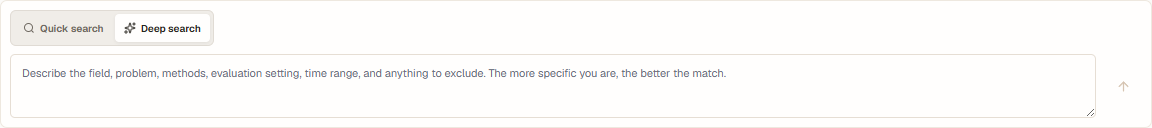
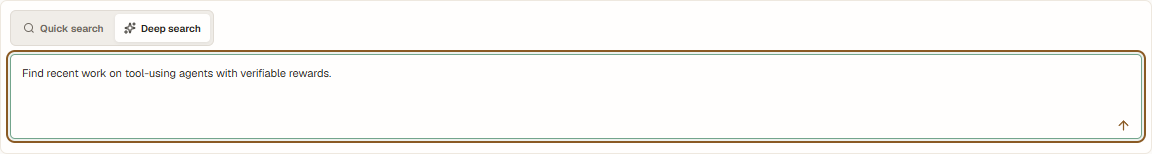
fix(daily): place search send inside the field

diff --git a/src/styles.css b/src/styles.css
@@ -884,10 +884,11 @@ button:focus-visible, input:focus-visible, textarea:focus-visible { outline: 2px
 .daily-paper-title a { background: transparent !important; border-color: transparent !important; }
 .daily-paper-title a:hover { color: var(--accent) !important; }.daily-paper-content { display: grid; min-width: 0; align-content: start; gap: 7px; }.daily-paper-title { display: flex; align-items: flex-start; gap: 6px; }.daily-paper-title h2 { flex: 1; margin: 0; color: #24362b; font-size: 13.5px; line-height: 1.4; }.daily-paper-title a { flex: 0 0 auto; padding: 2px; color: #557566; }.daily-paper-meta { display: flex; min-width: 0; align-items: center; gap: 7px; margin: 0; overflow: hidden; color: #68796e; font-size: 10px; white-space: nowrap; }.daily-paper-meta .daily-paper-date { flex: 0 0 auto; }.daily-paper-source { flex: 0 0 auto; padding: 1px 7px; color: #41634f; background: #edf3ee; border-radius: 999px; font-size: 9px; font-weight: 700; }.daily-paper-authors { min-width: 0; overflow: hidden; text-overflow: ellipsis; }.daily-paper-row small { display: -webkit-box; overflow: hidden; color: #64736a; font-size: 10.5px; line-height: 1.55; -webkit-box-orient: vertical; -webkit-line-clamp: 2; }.daily-paper-title .outline-button, .daily-paper-title .secondary-button { flex: 0 0 auto; min-height: 26px; padding: 0 9px; font-size: 10px; }.daily-paper-thumb { position: relative; display: block; width: 100%; aspect-ratio: 4 / 3; overflow: hidden; background: #eef2ee; border: 1px solid #dce5de; border-radius: 6px; }.daily-paper-thumb img { position: absolute; inset: 0; width: 100%; height: 100%; object-fit: cover; object-position: top center; }.daily-paper-thumb-fallback { display: grid; width: 100%; height: 100%; place-items: center; padding: 6px; color: #93a096; font-size: 9px; font-weight: 700; letter-spacing: .05em; text-align: center; text-transform: uppercase; }.daily-paper-signals { display: flex; flex-wrap: wrap; gap: 5px; margin-top: 8px; }.daily-paper-signals span, .daily-paper-signals a { display: inline-flex; align-items: center; gap: 3px; padding: 3px 5px; color: #61736a; background: #edf3ef; border-radius: 6px; font-size: 9px; text-decoration: none; }.daily-paper-signals a { color: #315f91; background: #edf3f9; }
 .daily-feed-failed { min-height: 220px; }.daily-feed-failed > svg { color: #9a6b1d; }.daily-feed-failed .secondary-button { margin-top: 5px; }
-.daily-mode-tabs button:disabled, .conference-mode-button:disabled, .daily-topic-filter button:disabled { cursor: not-allowed; opacity: .48; }.daily-search-panel { display: grid; gap: 8px; margin: 12px 0 7px; padding: 9px; background: #f7faf8; border: 1px solid #dbe5de; border-radius: 7px; }.daily-search-panel.deep { padding: 9px; }.daily-search-kind { display: inline-flex; width: max-content; gap: 2px; padding: 2px; background: #e9efeb; border-radius: 5px; }.daily-search-kind button { display: inline-flex; min-height: 28px; align-items: center; gap: 5px; padding: 0 9px; color: #718078; background: transparent; border-radius: 4px; font-size: 9px; font-weight: 750; }.daily-search-kind button.active { color: #235b45; background: #fff; box-shadow: 0 1px 3px rgba(25, 44, 32, .12); }.daily-search-panel.deep .daily-search-kind button.active { color: #235b45; }.daily-search-input-row { display: grid; grid-template-columns: minmax(0, 1fr) auto; align-items: stretch; gap: 8px; }.daily-search-input-row input, .daily-search-input-row textarea { width: 100%; padding: 10px 11px; color: #2d3d33; background: #fff; border: 1px solid #cfdcd3; border-radius: 5px; font-size: 11px; line-height: 1.5; outline: none; }.daily-search-input-row textarea { min-height: 64px; max-height: 160px; resize: vertical; }.daily-search-input-row input:focus, .daily-search-input-row textarea:focus { border-color: #73a58c; box-shadow: 0 0 0 2px rgba(70, 132, 103, .1); }.daily-search-panel.deep .daily-search-input-row textarea:focus { border-color: #73a58c; box-shadow: 0 0 0 2px rgba(70, 132, 103, .1); }
-.daily-search-send { display: grid; width: 38px; align-self: stretch; place-items: center; padding: 0; color: var(--accent); background: transparent; border: 0; border-radius: 6px; }
-.daily-search-send:hover:not(:disabled) { color: var(--accent-hover); background: color-mix(in srgb, var(--accent) 10%, transparent); }
-.daily-search-send:disabled { cursor: default; opacity: .35; }.daily-search-meta { display: flex; min-width: 0; align-items: center; justify-content: space-between; gap: 12px; color: #849088; font-size: 9px; }.daily-search-meta > span { overflow: hidden; text-overflow: ellipsis; white-space: nowrap; }.daily-deep-progress { display: grid; min-height: 230px; align-content: center; justify-items: center; gap: 8px; padding: 28px; color: #728179; text-align: center; }.daily-deep-progress svg { color: #477ca6; }.daily-deep-progress strong { color: #40584b; font-size: 12px; }.daily-deep-progress span { max-width: 520px; font-size: 10px; line-height: 1.6; }.daily-search-plan { display: grid; gap: 10px; margin: 12px 0; padding: 13px 15px; color: #53635a; background: #f5f8fb; border: 1px solid #d9e2ea; border-radius: 6px; }.daily-search-plan > div:first-child { display: grid; gap: 4px; }.daily-search-plan > div:first-child > strong { color: #2d4438; font-size: 12px; line-height: 1.45; }.daily-search-plan p { margin: 0; color: #7c8981; font-size: 9px; }.daily-search-plan-tags { display: flex; flex-wrap: wrap; gap: 5px; }.daily-search-plan-tags > span { display: inline-flex; align-items: center; gap: 4px; padding: 4px 6px; color: #466557; background: #fff; border: 1px solid #d8e3dc; border-radius: 4px; font-size: 9px; }.daily-search-plan-tags small { color: #809087; font-size: 7px; font-weight: 750; text-transform: uppercase; }.daily-search-plan details { color: #61766a; font-size: 9px; }.daily-search-plan summary { cursor: pointer; font-weight: 700; }.daily-search-plan ul { display: grid; gap: 4px; margin: 7px 0 0; padding-left: 17px; }.deep-match-reason { display: flex; align-items: flex-start; gap: 7px; margin: 7px 0; padding: 6px 8px; color: #5e7066; background: #f3f7f4; border-left: 2px solid #7fa992; border-radius: 0 4px 4px 0; font-size: 9px; line-height: 1.45; }.deep-match-reason strong { flex: 0 0 auto; color: #3f6f58; }.deep-match-reason.related { background: #f3f6f9; border-color: #86a7c2; }.deep-match-reason.related strong { color: #456d8e; }.deep-match-reason.background { background: #f6f6f3; border-color: #aaa9a1; }.deep-match-reason.background strong { color: #6f6f68; }
+.daily-mode-tabs button:disabled, .conference-mode-button:disabled, .daily-topic-filter button:disabled { cursor: not-allowed; opacity: .48; }.daily-search-panel { display: grid; gap: 8px; margin: 12px 0 7px; padding: 9px; background: #f7faf8; border: 1px solid #dbe5de; border-radius: 7px; }.daily-search-panel.deep { padding: 9px; }.daily-search-kind { display: inline-flex; width: max-content; gap: 2px; padding: 2px; background: #e9efeb; border-radius: 5px; }.daily-search-kind button { display: inline-flex; min-height: 28px; align-items: center; gap: 5px; padding: 0 9px; color: #718078; background: transparent; border-radius: 4px; font-size: 9px; font-weight: 750; }.daily-search-kind button.active { color: #235b45; background: #fff; box-shadow: 0 1px 3px rgba(25, 44, 32, .12); }.daily-search-panel.deep .daily-search-kind button.active { color: #235b45; }.daily-search-input-row { position: relative; display: block; }.daily-search-input-row input, .daily-search-input-row textarea { width: 100%; padding: 10px 44px 10px 11px; color: #2d3d33; background: #fff; border: 1px solid #cfdcd3; border-radius: 5px; font-size: 11px; line-height: 1.5; outline: none; }.daily-search-input-row textarea { min-height: 64px; max-height: 160px; padding-bottom: 40px; resize: none; }.daily-search-input-row input:focus, .daily-search-input-row textarea:focus { border-color: #73a58c; box-shadow: 0 0 0 2px rgba(70, 132, 103, .1); }.daily-search-panel.deep .daily-search-input-row textarea:focus { border-color: #73a58c; box-shadow: 0 0 0 2px rgba(70, 132, 103, .1); }
+.daily-search-send { position: absolute; right: 4px; bottom: 4px; display: grid; width: 30px; height: 30px; place-items: center; padding: 0; color: var(--text-muted); background: transparent; border: 0; border-radius: 6px; }
+.daily-search-send:hover:not(:disabled) { color: var(--accent); }
+.daily-search-send:disabled { cursor: default; opacity: .35; }
+.daily-search-input-row:focus-within .daily-search-send { color: var(--accent); }.daily-search-meta { display: flex; min-width: 0; align-items: center; justify-content: space-between; gap: 12px; color: #849088; font-size: 9px; }.daily-search-meta > span { overflow: hidden; text-overflow: ellipsis; white-space: nowrap; }.daily-deep-progress { display: grid; min-height: 230px; align-content: center; justify-items: center; gap: 8px; padding: 28px; color: #728179; text-align: center; }.daily-deep-progress svg { color: #477ca6; }.daily-deep-progress strong { color: #40584b; font-size: 12px; }.daily-deep-progress span { max-width: 520px; font-size: 10px; line-height: 1.6; }.daily-search-plan { display: grid; gap: 10px; margin: 12px 0; padding: 13px 15px; color: #53635a; background: #f5f8fb; border: 1px solid #d9e2ea; border-radius: 6px; }.daily-search-plan > div:first-child { display: grid; gap: 4px; }.daily-search-plan > div:first-child > strong { color: #2d4438; font-size: 12px; line-height: 1.45; }.daily-search-plan p { margin: 0; color: #7c8981; font-size: 9px; }.daily-search-plan-tags { display: flex; flex-wrap: wrap; gap: 5px; }.daily-search-plan-tags > span { display: inline-flex; align-items: center; gap: 4px; padding: 4px 6px; color: #466557; background: #fff; border: 1px solid #d8e3dc; border-radius: 4px; font-size: 9px; }.daily-search-plan-tags small { color: #809087; font-size: 7px; font-weight: 750; text-transform: uppercase; }.daily-search-plan details { color: #61766a; font-size: 9px; }.daily-search-plan summary { cursor: pointer; font-weight: 700; }.daily-search-plan ul { display: grid; gap: 4px; margin: 7px 0 0; padding-left: 17px; }.deep-match-reason { display: flex; align-items: flex-start; gap: 7px; margin: 7px 0; padding: 6px 8px; color: #5e7066; background: #f3f7f4; border-left: 2px solid #7fa992; border-radius: 0 4px 4px 0; font-size: 9px; line-height: 1.45; }.deep-match-reason strong { flex: 0 0 auto; color: #3f6f58; }.deep-match-reason.related { background: #f3f6f9; border-color: #86a7c2; }.deep-match-reason.related strong { color: #456d8e; }.deep-match-reason.background { background: #f6f6f3; border-color: #aaa9a1; }.deep-match-reason.background strong { color: #6f6f68; }
 .daily-search-warning { margin: 8px 0; padding: 8px 10px; color: #7c642d; background: #fff9e9; border: 1px solid #eee0b8; border-radius: 4px; font-size: 9px; line-height: 1.45; }
 .spin { animation: spin .8s linear infinite; } @keyframes spin { to { transform: rotate(360deg); } }
 
